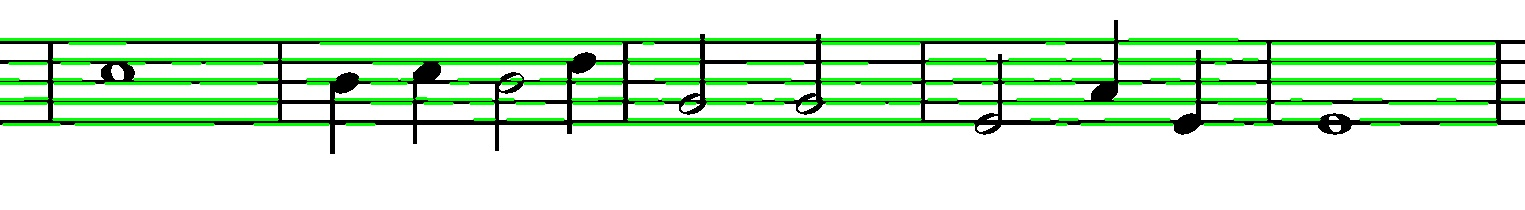
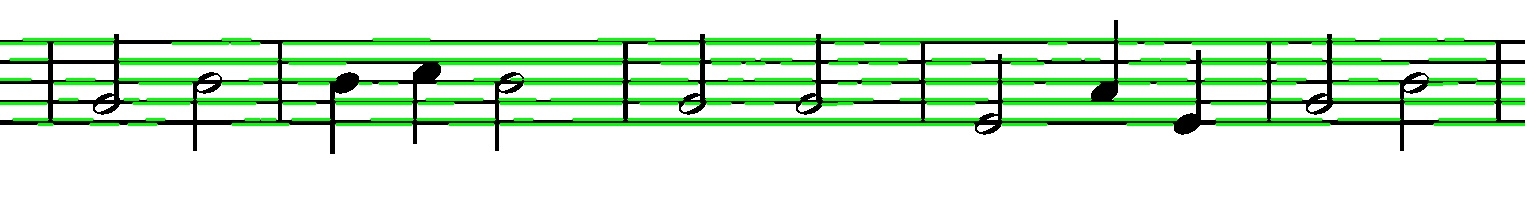
Add more notes

Changed region(s): [[0.0, 0.1722, 1.0, 0.6603]]

diff --git a/note-play.py b/note-play.py
@@ -1,7 +1,7 @@
 
 # coding: utf-8
 
-# In[9]:
+# In[24]:
 
 __author__ = 'Nikola Djuza RA6-2012'
 
@@ -19,7 +19,7 @@ from sklearn.cluster import KMeans
 from midiutil.MidiFile import MIDIFile
 
 
-# In[10]:
+# In[25]:
 
 def display_image(image, color = False):
     if color:
@@ -34,7 +34,7 @@ def load_and_prepare_image(image_path):
     return image_bin
 
 
-# In[11]:
+# In[26]:
 
 def create_fiveline(image):
     edges = cv2.Canny(image, 50, 150, apertureSize=3)
@@ -68,7 +68,7 @@ def create_fiveline(image):
     return fiveline
 
 
-# In[12]:
+# In[27]:
 
 def create_checks(fiveline):
     checks = list()
@@ -83,7 +83,7 @@ def create_checks(fiveline):
     return checks
 
 
-# In[13]:
+# In[28]:
 
 def create_bars_coordinates(img, fiveline, checks):
     barsBegins = list();
@@ -138,7 +138,7 @@ def create_bars_coordinates(img, fiveline, checks):
     return barsBegins, barsEnds
 
 
-# In[14]:
+# In[29]:
 
 def find_all_notes(noteValues, img, checks, barsBegins, barsEnds):
     iTunes = list()
@@ -224,7 +224,7 @@ def find_all_notes(noteValues, img, checks, barsBegins, barsEnds):
     return iTunes
 
 
-# In[15]:
+# In[30]:
 
 def export_tunes_to_MIDI_file(iTunes, outputPath):
     MyMIDI = MIDIFile(1)
@@ -252,11 +252,11 @@ def export_tunes_to_MIDI_file(iTunes, outputPath):
     binfile.close()
 
 
-# In[16]:
+# In[31]:
 
 def create_MIDI_file_from_img(img_path, note_values):
-    FU
-    img = load_and_prepare_image(img_path)
+    full_img_path = 'images/' + img_path + '.png'
+    img = load_and_prepare_image(full_img_path)
 
     height, width = img.shape[:2]
 
@@ -268,18 +268,25 @@ def create_MIDI_file_from_img(img_path, note_values):
 
     iTunes = find_all_notes(note_values, img, checks, barsBegins, barsEnds)
 
-    export_tunes_to_MIDI_file(iTunes, img_path + ".mid")
+    export_tunes_to_MIDI_file(iTunes, 'images/' + img_path + ".mid")
 
 
-# In[22]:
+# In[34]:
 
 note_values = (52, 53, 55, 57, 59, 60, 62, 64, 65, 67, 69, 71, 72, 74, 76, 77, 79, 81, 83)
 
 create_MIDI_file_from_img('test', note_values)
 create_MIDI_file_from_img('notes', note_values)
+create_MIDI_file_from_img('bibermore_notes', note_values)
+create_MIDI_file_from_img('brankamore_notes', note_values)
+create_MIDI_file_from_img('brankatest', note_values)
+create_MIDI_file_from_img('more_notes', note_values)
+create_MIDI_file_from_img('more_notes-1', note_values)
+create_MIDI_file_from_img('notes-1', note_values)
+create_MIDI_file_from_img('more_notes-1', note_values)
 
 
-# In[ ]:
+# In[33]:
 
 get_ipython().system(u'ipython nbconvert --to script note-play.ipynb')
 
